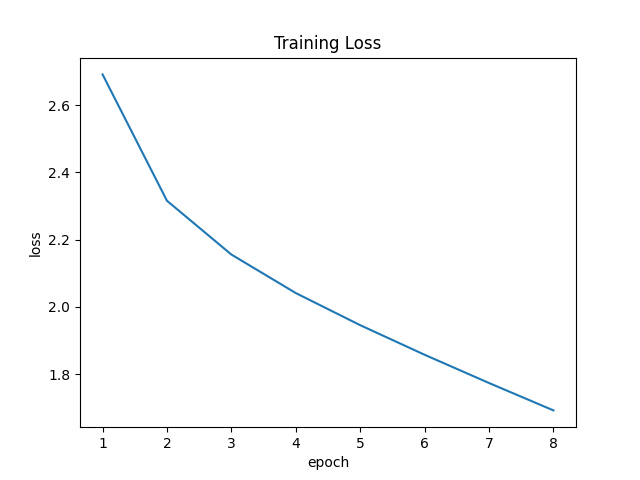
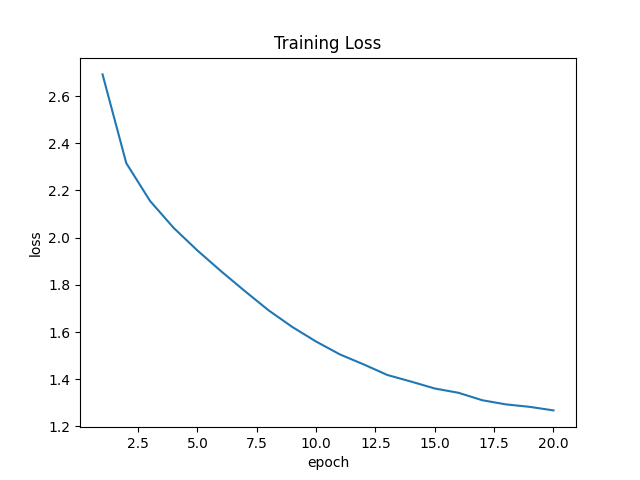
P3 finished

diff --git a/P3 Poem Composition/src/predict.py b/P3 Poem Composition/src/predict.py
@@ -2,7 +2,7 @@ import torch
 from model import Poet
 import setting
 
-INIT_S=30
+INIT_S=40
 
 def predict(text, gen_len=100):
 	cp=torch.load('../checkpoint/poet.pth')
@@ -24,11 +24,10 @@ def predict(text, gen_len=100):
 	x=x[INIT_S+1:]
 	predict_words=[setting.ix2word[_] for _ in x.detach().numpy()]
 	predict_text=''.join(predict_words)
-	print(predict_text)
 	return predict_text
 
-input_text='下马饮君酒，问君何所之'
+input_text='秦时明月汉时关'
 print("input text: "+input_text)
-print("output text: ", end='')
-predict(['</s>']*INIT_S+['<START>']+list(input_text), gen_len=100)
+ptext=predict(['</s>']*INIT_S+['<START>']+list(input_text), gen_len=100)
+print("output text: "+ptext)
 

diff --git a/P3 Poem Composition/doc/report.md b/P3 Poem Composition/doc/report.md
@@ -40,14 +40,27 @@ The figure below shows the loss descending as training epoch increase.
 
 <img src="C:\Users\vv\Desktop\Archives\Master\Deep Learning\Projects\P3 Poem Composition\doc\pic\training_loss.png" alt="training_loss" style="zoom:50%;" />
 
-Since there are no test set for this task, we wrote nine prompts as the starting line, and make the model compose the rest. See result as below.
+Since there are no test set for this task, we wrote six prompts as the starting line, and make the model compose the rest. See result as below.
 
 ```
-input text: 下马饮君酒，问君何所之
-output text: 下马饮君酒，问君何所之。我有一杯酒，我有一杯酒。我有一杯酒，劝君酒杯酒。我有一杯酒，劝酒
-劝君酒。酒酣酒醒酒，酒酣醉如醉。
+input text: 湖光秋月两相和
+output text: 湖光秋月两相和，水馆风闲两相过。两岸红旗俱几许，风劲银澜难数过。新杯一醆杯前醉，夜夜明星
+月上无。
 
+input text: 国破山河在
+output text: 国破山河在，天涯道路赊。家书辞日诏，兵气入秦家。壮气连云汉，狂风似水流。自怜长白首，皆恨白苹洲。不羨山僧便，宁辞东海鸥。还将谢戎策，归去臥云鸥。
 
+input text: 明月几时有？
+output text: 明月几时有？迢遰楚云飞。因高不可越，孤兴正悠哉。青云不可遇，空伤此时违。
+
+input text: 慈母手中线
+output text: 慈母手中线，能令不得归。主人不得主，日夜守车衣。僮仆不顾恩，为我披衣冠。此时不得意，君去看云衣。
+
+input text: 昔人已乘黄鹤去，此地空余黄鹤楼。
+output text: 昔人已乘黄鹤去，此地空余黄鹤楼。青林独坐见人吏，白日到此难可留。黄河流水无多事，白云三十成白首。何时为道经长人，更作江南老夫客。
+
+input text: 秦时明月汉时关
+output text: 秦时明月汉时关，万里相逢今屈宋。君向征途去已亡，河阳日落淮南薇。玉人不识人间事，羞把芙蓉亲早衣。
 ```
 
  
